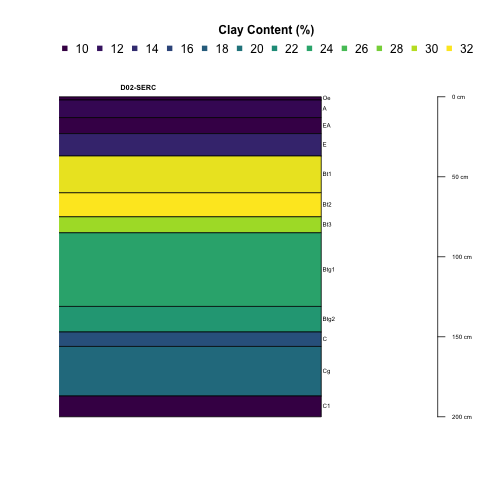
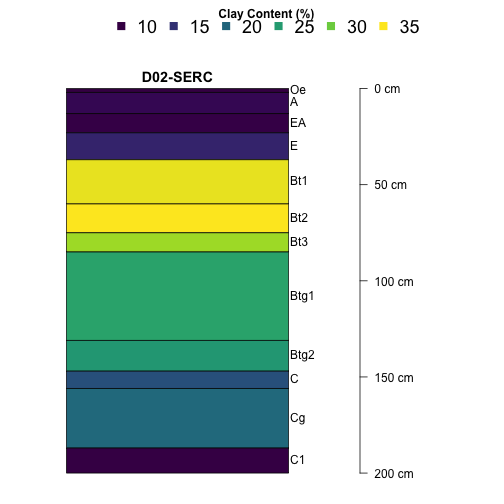
Minor updates to Plot Megapit Profiles tutorial

diff --git a/tutorials/R/UF-2020/megapit-profiles.md b/tutorials/R/UF-2020/megapit-profiles.md
@@ -170,29 +170,27 @@ a single site, the Smithsonian Environmental Research Center
 (SERC), and plot clay content by depth.
 
 
-    plotSPC(S[which(S@site=="D02-SERC"),],
-            name='horizonName', label='siteLabel',
-            color='clayTotal', col.label='Clay Content (%)',
-            col.palette=viridis::viridis(10))
-
-![ ]({{ site.baseurl }}/images/rfigs/R/UF-2020/megapit-profiles/plot-SERC-1.png)
-
+    # adjust margins
     par(mar=c(1,6,3,4), mfrow=c(1,1), xpd=NA)
-    #par(mar=c(1,3,3,4), xpd=NA)
-    #plotSPC(x[1, ], cex.names=1)
-    plotSPC(S[1,], name='horizonName', label='siteLabel', 
+    
+    # Plot SERC clay profile
+    plotSPC(S[which(S@site=="D02-SERC"),], 
+            name='horizonName', label='siteLabel', 
             color='clayTotal', col.label='Clay Content (%)',
             col.palette=viridis::viridis(10), cex.names=1, 
             width = .1, axis.line.offset = -6, 
             col.legend.cex = 1.5, n.legend=6, 
             x.idx.offset = 0, n=.88)
 
-![ ]({{ site.baseurl }}/images/rfigs/R/UF-2020/megapit-profiles/plot-SERC-2.png)
+![ ]({{ site.baseurl }}/images/rfigs/R/UF-2020/megapit-profiles/plot-SERC-1.png)
 
 Now let's take a look at phosphorus at Wind River 
 Experimental Forest (WREF).
 
 
+    # adjust margins
+    par(mar=c(1,6,3,4), mfrow=c(1,1), xpd=NA)
+    
     plotSPC(S[which(S@site=="D16-WREF"),], 
             name='horizonName', label='siteLabel', 
             color='pMjelm', 
@@ -212,9 +210,9 @@ We can even pass the plotting function multiple sites in order to compare the pe
             color='sandTotal', 
             col.label='Percent Sand (%)',
             col.palette=viridis::viridis(10),
-            n.legend = 7)
+            n.legend = 5)
 
-![ ]({{ site.baseurl }}/images/rfigs/R/UF-2020/megapit-profiles/plot-five-1.png)
+![ ]({{ site.baseurl }}/images/rfigs/R/UF-2020/megapit-profiles/plot-four-1.png)
 
 
 ## Multivariate Plotting
